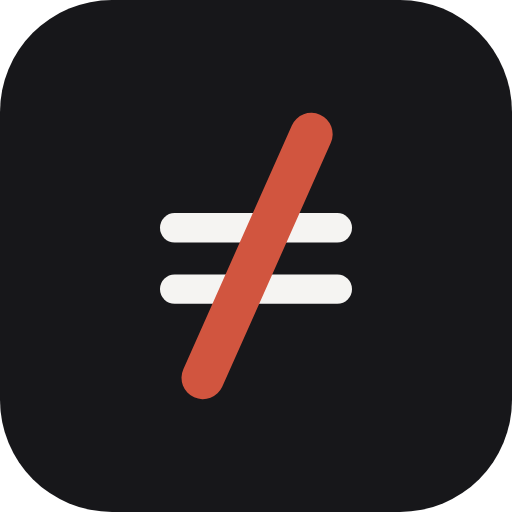
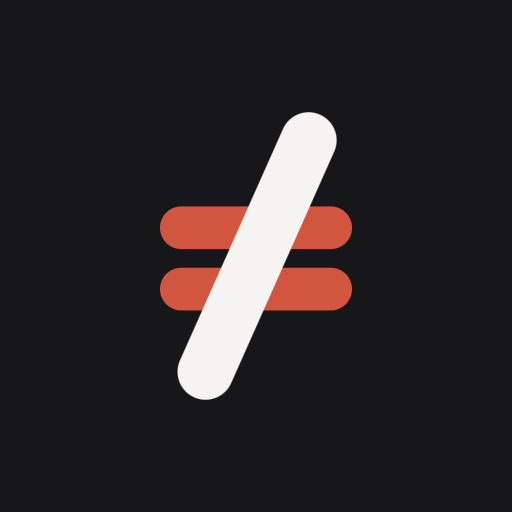
brand: swap the ≠ colours and refresh the org profile to match slopstopper.org
The = is now the red, the strike is the text colour, and the strike sits
on top of the bars. Both are heavier so they sit closer to the letter
stems: bars 16, strike 21 (glyph units, were 11 and 16). SVG masters
rewritten, PNGs re-exported at the same pixel sizes.

README now mirrors the home page: poem, the problem, "What slop do they
stop?" table, applied to itself, install, status. Adds the site link.

Claude-Session: https://claude.ai/code/session_01JJAyMaeqHq4oPatdGnWw3w

diff --git a/profile/README.md b/profile/README.md
@@ -1,4 +1,4 @@
-<!-- slopstopper · coherent doesn't mean correct -->
+<!-- slopstopper · coherent doesn't mean correct · mirrors https://slopstopper.org -->
 
 <picture>
   <source media="(prefers-color-scheme: dark)" srcset="https://raw.githubusercontent.com/slopstopper/.github/main/profile/assets/logo-word-light.png">
@@ -10,71 +10,74 @@
 > *Confidence doesn't mean it has provenance.*<br>
 > *It looks like it works — but does it have the right effect?*
 
-**Slop**: fluent, plausible, confident output, unmoored from anything that
-checked it. Coherence without provenance: sounds finished, looks measured,
-reads as decided.
-
-Coherence used to mean something. If something held together, it meant a someone had thought about it and understood it. Now with generative tools anything can look coherent, polished and confident while remaining completely untethered to reality. Everything 'looks right' including complete and utter nonsense. 
-
-slopstopper is a set of tools that catch slop in code. Each stands alone, and
-any combination of them works together as one system.
+slopstopper is a set of tools for checking what generative systems produce.
+Each works on its own; together they work as one system.
 
 ```
 /plugin marketplace add slopstopper/marketplace
 ```
 
-## The tools
+**[slopstopper.org →](https://slopstopper.org)**
 
-In use:
+## The problem
 
-| tool | measures | in one line |
-|---|---|---|
-| [**plumb-line**](https://github.com/slopstopper/plumb-line) | whether claims are honest | provenance primitives (JS + Python) plus skills that audit for laundered uncertainty, and refuse to launder it back out during the fix. |
-| [**tokenomics**](https://github.com/slopstopper/tokenomics) | which model should do the work | route work to the cheapest capable tier, name your own lanes (no defaults shipped), carry strategy across sessions in a playbook of reusable method. |
-| [**recursive-spine**](https://github.com/slopstopper/recursive-spine) | where tracked state lives | GitHub issues + milestones as the only home of work state; skills to teach, stamp, migrate, and digest it. Its own tracker existed before its first commit. |
+**Slop used to be obvious.** It has not disappeared, it just got better at
+disguising itself. You can no longer tell just by looking at something what
+parts have been checked and what parts got filled in with an articulate
+guess. It all reads the same regardless.
 
-Three concerns that don't overlap: honesty of claims, economics of effort,
-location of state. Shared vocabulary is pinned in the
-[marketplace](https://github.com/slopstopper/marketplace) so one word can't
-mean three things.
+Now with generative tools anything can look coherent, polished and confident
+while remaining completely untethered to reality.
 
-More will follow.
+## What slop do they stop?
+
+One tool for each.
+
+| | tool | stops | how |
+|---|---|---|---|
+| 01 / honesty | [**plumb-line**](https://slopstopper.org/plumb-line/) | **a guess used as if it were measured** | A mock value ends up in a dashboard, then a decision, and nothing along the way marks it as a guess. plumb-line labels each value with where it came from and keeps the label attached through every derivation, and its review-time checks catch the places where that already went wrong. |
+| 02 / economics | [**tokenomics**](https://github.com/slopstopper/tokenomics) | **the wrong model doing the work** | An expensive model running work a cheap one could do, or a cheap one running work it can't and having to redo it. tokenomics routes work to the cheapest tier that can actually do it, in lanes you name, and a living playbook carries what you worked out into the next session. |
+| 03 / state | [**recursive-spine**](https://github.com/slopstopper/recursive-spine) | **a record that drifts from reality** | Work tracked in a document drifts almost immediately, and a "later" that isn't written down doesn't happen. recursive-spine keeps work state in GitHub issues and milestones, where it stays queryable, and ages deferrals so they surface before they rot. |
+
+Put tokenomics and recursive-spine together and the routing is logged in
+issues and milestones instead of sitting in a playbook. The shared vocabulary
+is pinned in the
+[marketplace](https://github.com/slopstopper/marketplace/blob/main/docs/shared-vocabulary.md):
+one owner per term.
 
 ## Applied to itself
 
-plumb-line's audit skill was run against plumb-line and produced a
-remediation plan it then had to survive. recursive-spine's issues and
-milestones existed before its first commit, its labels were stamped by its
-own bootstrap, and its own deferrals age on its own digest. If a discipline
-is too heavy to follow while building the tool that states it, the discipline
-is wrong. Change the rule and leave the record alone.
+**Every tool is run on itself.** None of these ask of you a standard they
+don't meet. Each is turned on its own repository and has to survive the
+result.
 
-## What goes wrong
+- ↺ **plumb-line** — its auditor runs on its own code before every release,
+  and the dogfood report keeps what it finds.
+- ↺ **tokenomics** — it runs on its own build: a dogfooded playbook and a
+  spend ledger that makes its savings claims checkable.
+- ↺ **recursive-spine** — its issues and milestones existed before its first
+  commit, and its deferrals age on its own digest.
 
-When fluent tools meet real work:
-
-| Risk | How it arrives |
-|---|---|
-| **Laundered uncertainty** | A mock value gets used as if it were measured. It ends up in a dashboard, then a decision, and nothing along the way marks it as a guess. |
-| **Self-graded homework** | The tool that made the claim is the same tool that checks it. |
-| **Prose-ledger rot** | Work tracked in a document drifts from reality almost immediately. Merges drop rows and the file still reads fine. |
-| **Silent deferral** | A "later" that isn't written down anywhere usually just doesn't happen. |
-| **Economics slop** | An expensive model running work a cheap one could do, or a cheap one running work it can't and having to redo it. |
-| **Overstated maturity** | Everything gets called "production-ready," including things that aren't. |
+If we cannot follow a rule while building the tool that asks you to follow
+it, the rule has failed its own test and we rewrite it. The record of where
+it broke stays, because editing it afterwards would be the failure this is
+meant to catch.
 
 ## Install
 
+From inside Claude Code:
+
 ```
 /plugin marketplace add slopstopper/marketplace
+/plugin install plumb-line@slopstopper
+/plugin install tokenomics@slopstopper
+/plugin install recursive-spine@slopstopper
 ```
 
-then `/plugin install` any combination you want.
+Prefer to read first? Start with the
+[plumb-line page](https://slopstopper.org/plumb-line/).
 
-## Status
+## Status, honestly
 
-From live practice in a few real projects, written up as practice reports.
-We would love to tell you these tools are battle-tested; our own CI fails any
-README containing that phrase.
-
-None of this stops you from shipping slop. It makes it visible, attributable,
-and slightly embarrassing.
+None of this stops you from shipping slop. It just makes it visible,
+attributable, and slightly embarrassing.
